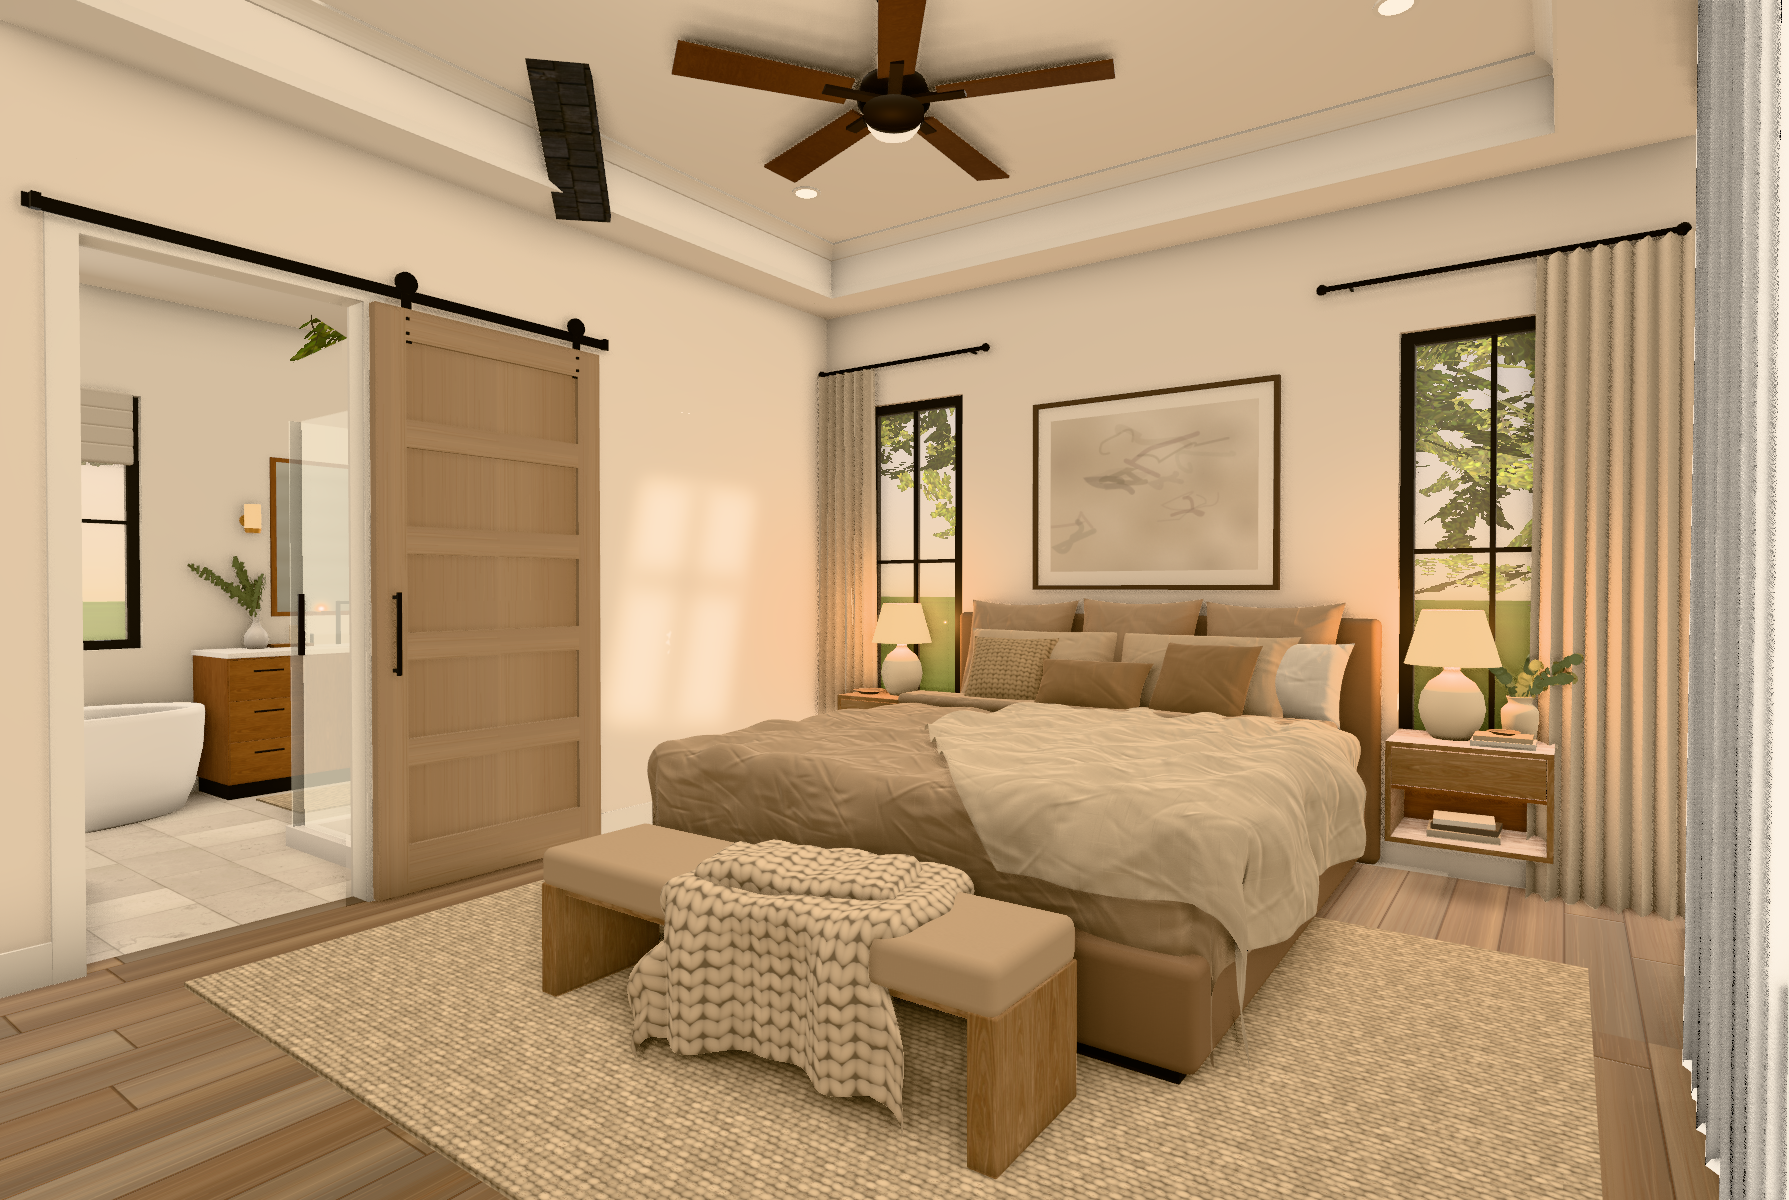
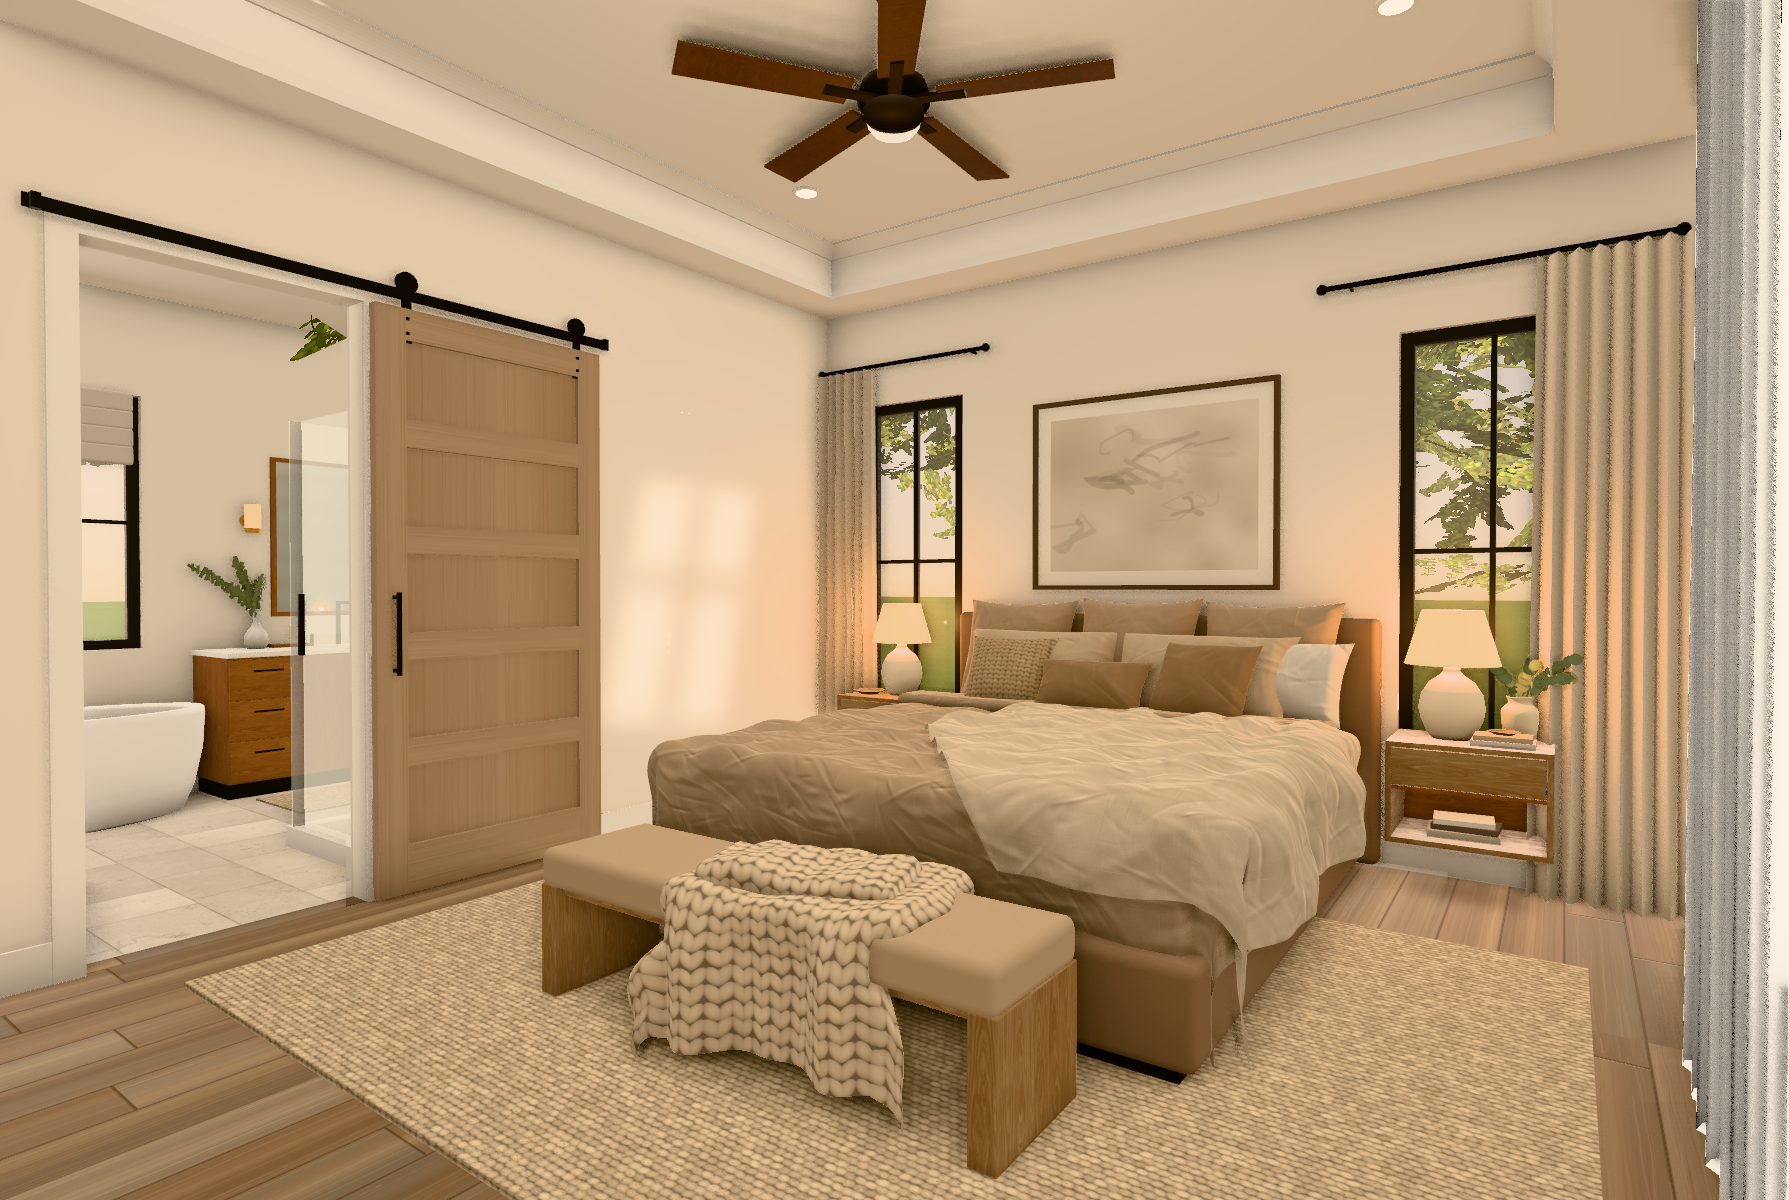
Clip roof hip caps like the roof planes; pow() AO blend above intensity 1
- exterior/roof.js: the main roof's west hip cap ran on under the west wing's roof and hung
  into the master bedroom ceiling; hip caps now keep only the part the clipper keeps
- main.js: GTAO's stock blend mix(1, ao, k) extrapolates for k > 1 (tinted, negative darks);
  darken with pow(ao, k) instead
- master_suite round 2 shot retaken with the fix

diff --git a/src/pieces/exterior/roof.js b/src/pieces/exterior/roof.js
@@ -78,9 +78,17 @@ export function emitRoof(geo, blk, M, opts = {}) {
   if (opts.rakes !== false) for (const r of blk.rakes) rakeTrim(geo, M, r, blk, FH);
   if (!opts.noRidge) for (const [a, b] of blk.ridges) if (a.distanceTo(b) > 0.05) geo.beam(M.ridgeCap, a.clone().add(V3(0, 0.035, 0)), b.clone().add(V3(0, 0.035, 0)), 0.26, 0.06);
   if (!opts.noHipCaps) for (const [a, b] of blk.hips) {
-    const pieces = opts.clipper ? opts.clipper([a.clone(), b.clone(), b.clone().add(V3(0, 0.001, 0))]) : null;
-    if (pieces && !pieces.length) continue;
-    geo.beam(M.ridgeCap, a.clone().add(V3(0, 0.03, 0)), b.clone().add(V3(0, 0.03, 0)), 0.24, 0.05);
+    // keep only the parts of the hip line the clipper keeps: a hip that dies into another roof must not run on
+    // underneath it (the main roof's west hip used to hang into the master bedroom)
+    let segs = [[a.clone(), b.clone()]];
+    if (opts.clipper) {
+      const d = b.clone().sub(a), L2 = d.lengthSq();
+      segs = opts.clipper([a.clone(), b.clone(), b.clone().add(V3(0, 0.001, 0))]).map((pc) => {
+        const ts = pc.map((q) => q.clone().sub(a).dot(d) / L2);
+        return [a.clone().addScaledVector(d, Math.max(0, Math.min(...ts))), a.clone().addScaledVector(d, Math.min(1, Math.max(...ts)))];
+      }).filter(([p, q]) => p.distanceTo(q) > 0.05);
+    }
+    for (const [p, q] of segs) geo.beam(M.ridgeCap, p.add(V3(0, 0.03, 0)), q.add(V3(0, 0.03, 0)), 0.24, 0.05);
   }
 }
 

diff --git a/src/main.js b/src/main.js
@@ -57,6 +57,17 @@ gtao.output = GTAOPass.OUTPUT.Default;
 gtao.blendIntensity = 1.0;
 gtao.updateGtaoMaterial({ radius: 0.5, distanceExponent: 1.5, thickness: 1.0, scale: 1.0, samples: 16, distanceFallOff: 1.0 });
 gtao.updatePdMaterial({ lumaPhi: 10, depthPhi: 2, normalPhi: 3, radius: 6, rings: 2, samples: 16 });
+// stock blend is mix(1, ao, intensity), which extrapolates past 1 (negative, tinted darks); darken with pow() instead
+gtao.blendMaterial.fragmentShader = /* glsl */`
+  uniform float intensity;
+  uniform sampler2D tDiffuse;
+  varying vec2 vUv;
+  void main() {
+    vec4 texel = texture2D(tDiffuse, vUv);
+    float ao = clamp(texel.r, 0.0, 1.0);
+    gl_FragColor = vec4(vec3(intensity <= 1.0 ? mix(1.0, ao, intensity) : pow(ao, intensity)), texel.a);
+  }`;
+gtao.blendMaterial.needsUpdate = true;
 composer.addPass(gtao);
 const bloom = new UnrealBloomPass(new THREE.Vector2(W, H), 0.0, 0.4, 0.92);
 bloom.enabled = false;
